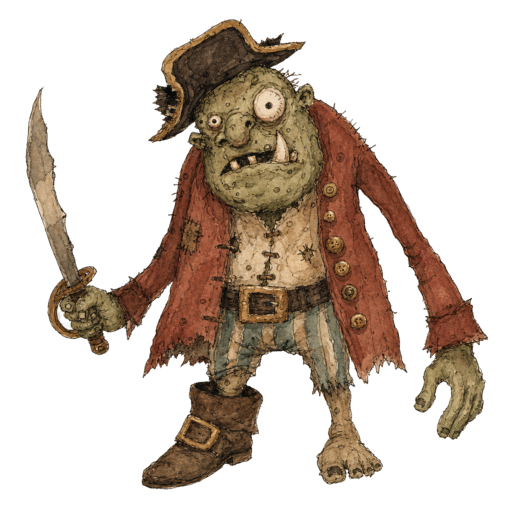
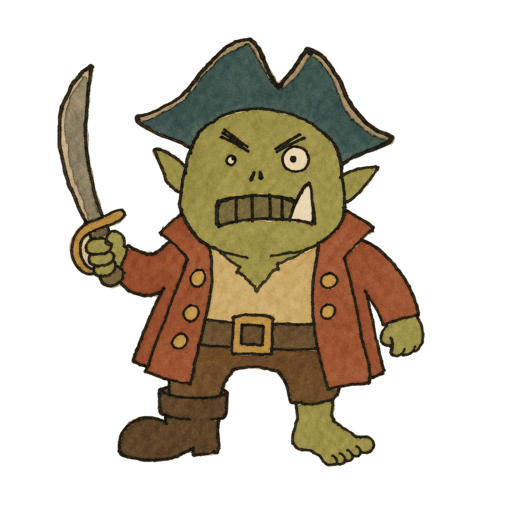
Min info-knappen: samma stil som Logga ut (gemensam selector)

diff --git a/scripts/generate-map-assets.js b/scripts/generate-map-assets.js
@@ -196,7 +196,7 @@ const ASSETS = [
   {
     file: 'pirate-ogre.png',
     prompt:
-      'A naïve hand-drawn pirate ogre for an 18th-century pirate map by an unskilled amateur cartographer who has heard tall tales of brutish sea monsters that walk on two legs. Quill pen and iron-gall ink with muted green-grey skin wash and rust-red pirate coat watercolour spilling outside the wobbly outlines. A hulking lumpy humanoid — potato-shaped head too big for the body, one tusk sticking out at a wrong angle, mismatched googly eyes (one tiny, one huge), a crooked scowling mouth with two or three uneven square teeth. Wearing a clumsily drawn tricorn hat tilted sideways, a tattered frock coat with mismatched brass buttons, one oversized boot and one stubby foot, a bent cutlass held in a sausage-finger hand. Arms too long, legs too short, shoulders uneven. Menacing in intent but awkwardly drawn — proportions completely wrong, perspective broken, hesitant quill strokes with visible ink blots. Period sepia and muted green palette, aged and oxidised. Map decoration of a fearsome pirate ogre, not polished, not scary-realistic. Isolated figure only.',
+      'A naïve hand-drawn pirate ogre map sticker in the EXACT same visual style as a highway-robbers map decoration — the same thick quill-pen outlines, same flat muted watercolor washes spilling outside the lines, same folk-art simplicity. By an unskilled amateur cartographer who cannot draw well. ONE single ogre figure only, standing front-facing, chunky and lopsided like a clumsy doodle. Muted olive-green flat skin wash (no bumps, no warts, no texture). Head too big, one tusk as a simple white triangle, angry scowling face drawn like the robbers — two mismatched dot-eyes, angry scribble eyebrows, rectangular open mouth with a few vertical tooth lines. CRITICAL — SHABBY OGRE PIRATE CLOTHES: everything he wears is stolen, too small, and falling apart — a crooked tricorn hat crushed and bent with a torn brim, a rust-red frock coat much too tight on his huge shoulders with jagged torn hem and sleeves, missing buttons and one sleeve shorter than the other, a dirty off-white shirt sticking out in ragged tufts, a loose belt slung low on a fat belly, one patched brown breeches leg and one bare green stubby leg, one enormous scuffed boot bursting at the seams and one bare ogre foot with thick toes. Bent cutlass in one sausage hand. Quill pen and iron-gall ink, muted rust-red, olive green, sepia and black-brown wash only. CRITICAL STYLE: as simple and flat as robbers.png or kraken.png — bold outlines, flat colour blobs, zero cross-hatching, zero skin detail, zero stitching or fabric texture, zero painterly shading, zero storybook illustration, zero realistic monster art. Awkward proportions, earnest but genuinely bad drawing. Map decoration only.',
   },
 ]
 

diff --git a/src/styles/main.css b/src/styles/main.css
@@ -116,7 +116,8 @@ body {
   backdrop-filter: blur(4px);
 }
 .top-controls button:hover { background: rgba(139, 44, 26, 0.8); }
-#logout-btn {
+#logout-btn,
+#info-btn {
   border-radius: 1.25rem;
   height: 2.5rem;
   padding: 0 0.85rem;
